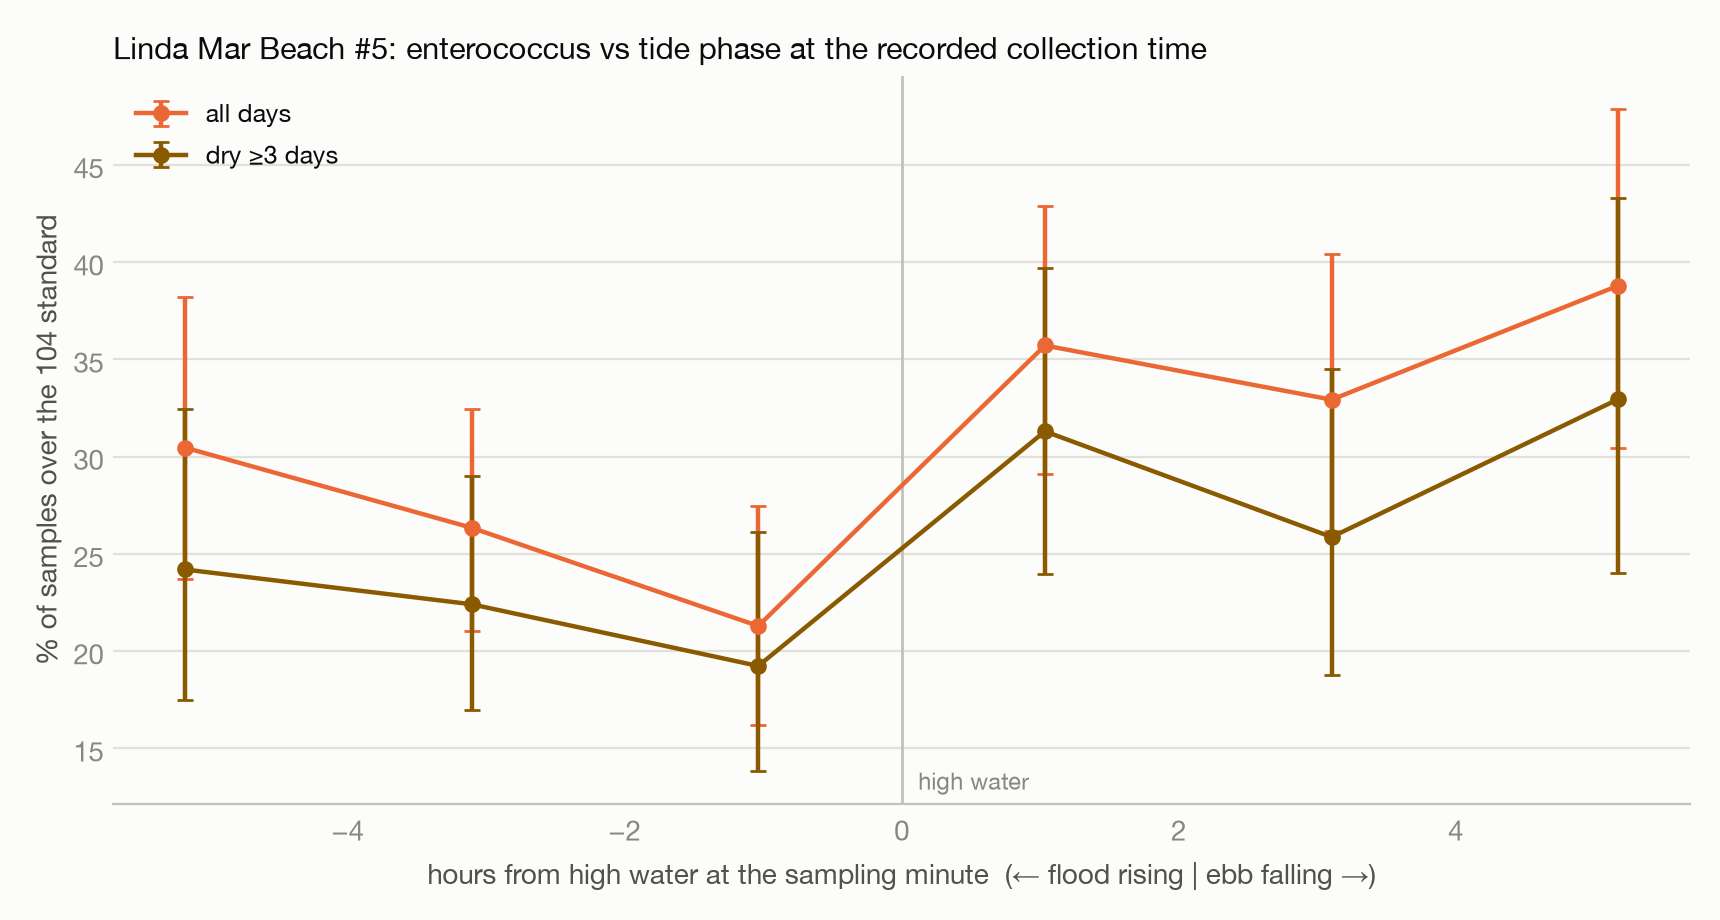
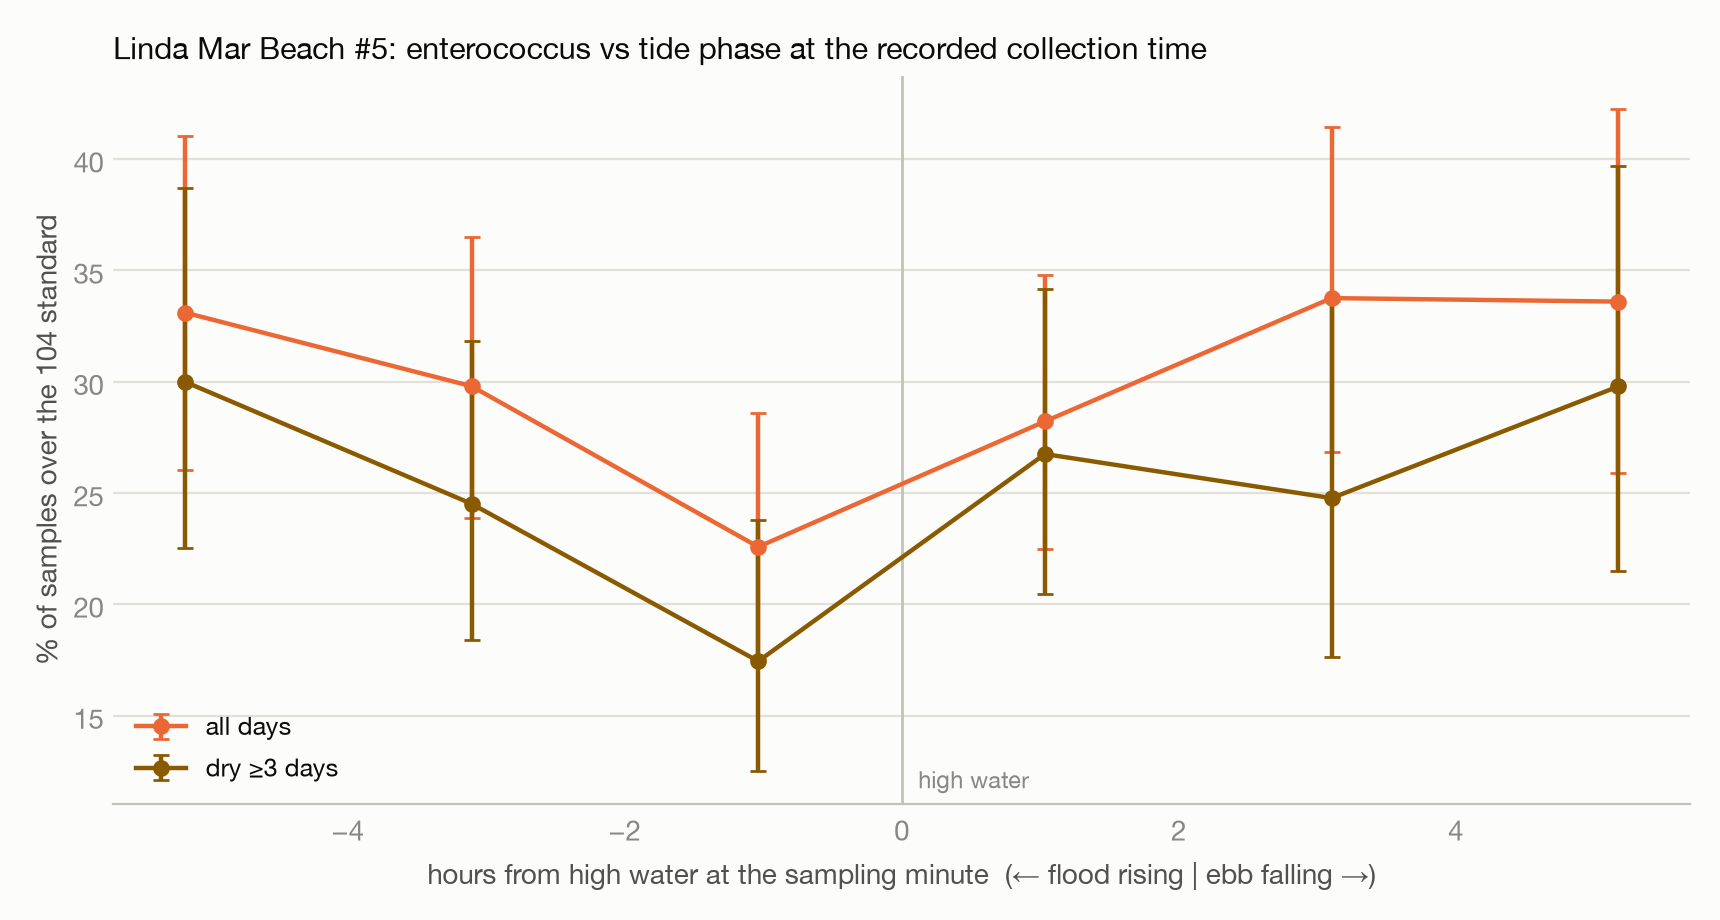
CORRECTION: tide effect is high-vs-low phase, not ebb-vs-flood — SF-gauge timing alias; switch to Princeton 9414131
On the open-coast clock the ebb/flood split collapses (1.12, n.s.); what
survives is phase: ~1.27x low-water vs high-water windows (p=0.04 all days).
The 1.37x ebb result was manufactured by the SF gauge's ~1h lag relabeling
the clean around-high window as flood.

diff --git a/pipeline/tide_beach.py b/pipeline/tide_beach.py
@@ -8,8 +8,10 @@ Method
 - Samples: CEDEN LM5 enterococcus with a recorded CollectionTime (the
   "00:00:00" sentinel rows are dropped as missing-time). Same-date replicates
   collapse to the max (register §7).
-- Tide: NOAA CO-OPS harmonic predictions, SF station 9414290, hourly,
-  local clock (lst_ldt) — deterministic, so historical values are exact.
+- Tide: NOAA CO-OPS harmonic predictions, Princeton/Half Moon Bay station
+  9414131 (open coast; see inferences.md §6 for the SF-gauge correction),
+  hourly, local clock (lst_ldt) — deterministic, so historical values are
+  exact.
   Height and rate at the sampling minute are linearly interpolated; each
   sample also gets a phase = signed hours from the nearest high water
   (parabola-refined local maxima), negative before high (flood), positive
@@ -116,6 +118,7 @@ def load():
     rc["date"] = pd.to_datetime(rc.date)
     b = b.merge(rc, on="date", how="left")
     b["exceed"] = b.value > STD
+    b["nd"] = False
     b["logc"] = np.log10(b.value.clip(lower=1))
     b["ebb"] = b.tide_rate < 0
     return b.reset_index(drop=True)
@@ -199,6 +202,32 @@ def main():
     contrast(dry3, "DRY >=3 DAYS (storm influence excluded)")
     dry7 = b[b.days_since_rain >= 7]
     contrast(dry7, "DRY >=7 DAYS")
+
+    # phase-window contrast: around high water vs around low water
+    def window_contrast(df, label):
+        hi = df[df.phase_h.abs() <= 2.07]
+        lo = df[df.phase_h.abs() >= 4.14]
+        ph, pl = hi.exceed.mean(), lo.exceed.mean()
+        rrs = []
+        for _ in range(4000):
+            sh = hi.exceed.sample(len(hi), replace=True).mean()
+            sl = lo.exceed.sample(len(lo), replace=True).mean()
+            if sh > 0:
+                rrs.append(sl / sh)
+        clo, chi = np.percentile(rrs, [2.5, 97.5])
+        pool = pd.concat([hi, lo]).exceed.values
+        obs = pl - ph
+        nlo = len(lo)
+        perm = np.array([abs(np.mean(x[:nlo]) - np.mean(x[nlo:]))
+                         for x in (RNG.permutation(pool) for _ in range(20000))])
+        p = (perm >= abs(obs)).mean()
+        print(f"\n{label} — around high (|ph|<=2.07h) vs around low (|ph|>=4.14h)")
+        print(f"  high-water window: {ph:5.1%} exceed, geo-mean {gm(hi.value):6.1f}, ND {hi.nd.mean() if 'nd' in hi else float('nan'):5.1%}  n={len(hi)}")
+        print(f"  low-water window : {pl:5.1%} exceed, geo-mean {gm(lo.value):6.1f}, ND {lo.nd.mean() if 'nd' in lo else float('nan'):5.1%}  n={len(lo)}")
+        print(f"  RR low/high {pl/ph:.2f}  [95% CI {clo:.2f}-{chi:.2f}]  perm p={p:.4f}")
+
+    window_contrast(b, "ALL DAYS")
+    window_contrast(dry3, "DRY >=3 DAYS")
 
     # height (stage) check — expected null from prior work
     print("\nTide HEIGHT terciles (all days):")

diff --git a/pipeline/fetch_covariates.py b/pipeline/fetch_covariates.py
@@ -16,7 +16,8 @@ import requests
 ROOT = Path(__file__).resolve().parent.parent
 DB = ROOT / "data" / "pacifica.db"
 COOPS = "https://api.tidesandcurrents.noaa.gov/api/prod/datagetter"
-STATION = "9414290"  # San Francisco
+STATION = "9414131"  # Princeton / Half Moon Bay — open-coast reference station;
+# the coast turns 30-65 min before the SF Golden Gate gauge (see inferences.md §6)
 YEARS = range(2000, 2027)  # tide is deterministic; span the full LM5 record
 
 

diff --git a/docs/findings-v9.md b/docs/findings-v9.md
@@ -10,12 +10,15 @@ rather than leaving the claim inside a ridge fit. `pipeline/tide_beach.py`.
   1,255 sample-days; 1,106 carry a real `CollectionTime` (149 rows hold the
   `00:00:00` missing-time sentinel and are dropped). Times cluster 8–11 AM,
   median 9:00. Same-date replicates collapse to the max (register §7).
-- **Tide:** NOAA CO-OPS harmonic predictions, SF station 9414290, hourly,
-  extended back to 2000 (deterministic, so historical values are exact;
-  `tide_hourly` now spans 2000–2026). Height and rate at the sampling minute
+- **Tide:** NOAA CO-OPS harmonic predictions, hourly, 2000–2026,
+  **Princeton/Half Moon Bay station 9414131** — an open-coast reference
+  station 14 miles south of Linda Mar. (The first publication of this note
+  used the SF Golden Gate gauge 9414290; the open coast turns 30–65 minutes
+  before that gauge — register §6 — and the switch materially changed the
+  result. See the correction below.) Height and rate at the sampling minute
   are interpolated; each sample gets a **phase** = signed hours from the
-  nearest high water (parabola-refined maxima): negative = flood (rising),
-  positive = ebb (falling).
+  nearest high water (parabola-refined maxima): negative = before high
+  (rising), positive = after (falling).
 
 The sampling program never chose its times by tide — samplers arrive on a
 morning schedule while the tide drifts ~50 minutes later each day — so tide
@@ -24,51 +27,64 @@ phase at the sampling minute is close to naturally randomized
 samples land disproportionately in winter (50% vs 37%) and on rainier weeks
 (prev-7d 11.7 vs 9.1 mm), so every claim below is checked in dry weather.
 
-## Result: ebb tide raises the odds ~1.3×, and it is not rain in disguise
+## CORRECTION (same day): the effect is high-vs-low phase, not ebb-vs-flood
 
-| subset | n (ebb/flood) | ebb exceed | flood exceed | RR [95% CI] | perm p |
-|---|---|---|---|---|---|
-| all days | 478/628 | 34.7% | 25.3% | **1.37 [1.15–1.65]** | 0.001 |
-| dry ≥3 days | 347/505 | 28.8% | 21.6% | **1.34 [1.06–1.70]** | 0.020 |
-| dry ≥7 days | 279/397 | 29.7% | 23.2% | 1.28 [0.99–1.64] | 0.062 |
+The first publication of this note, timed on the SF Golden Gate gauge,
+reported "ebb tide raises the odds 1.37× (p=0.001)." Re-timing every sample
+on the open-coast clock (Princeton 9414131, which Pacifica tracks to within
+minutes) **collapses that binary**: ebb/flood becomes 1.12 [0.93–1.34],
+p=0.26, and the controlled OLS ebb coefficient falls to +0.05. The SF gauge
+runs ~an hour behind the coast, so the genuinely clean hours *around* local
+high water were being wholesale mislabeled "flood," manufacturing an
+ebb-vs-flood split. Direction at the sampling moment does not matter.
 
-Geo-means move the same way (all days: 52 vs 37). OLS on log-concentration
-gives the same answer from the other direction: the ebb coefficient is
-+0.147 naive and **+0.114 with rain + season controls** (≈ ×1.30
-concentration). The dry-weather replication is the load-bearing row: with
-storm influence excluded entirely, the effect stands at the same size; the
-≥7-day subset thins to p=0.06 as n drops, at an unchanged effect size —
-what a modest real effect looks like as power shrinks, not a disappearing one.
-
-## The phase curve is the mechanism's signature
-
-Exceedance by hours-from-high-water (`docs/charts/tide_phase_lm5.png`):
+What survives — and is the correct claim — is the **phase structure**.
+Exceedance by hours-from-local-high-water (`docs/charts/tide_phase_lm5.png`):
 
 | phase | −5.2h | −3.1h | −1.0h | +1.0h | +3.1h | +5.2h |
 |---|---|---|---|---|---|---|
-| all days | 30% | 26% | **21%** | 36% | 33% | **39%** |
-| dry ≥3d | 24% | 22% | **19%** | 31% | 26% | **33%** |
+| all days | 33% | 30% | **23%** | 28% | 34% | 34% |
+| dry ≥3d | 30% | 25% | **17%** | 27% | 25% | 30% |
 
-Risk falls through the flood to its minimum in the last hour before high
-water, jumps immediately after the turn, and is highest late in the ebb —
-near low water. Both series show the same shape. That is what creek-plume
-transport predicts: hours of incoming ocean water push the plume back
-against the creek mouth; hours of ebb draw it out across the beach face.
-The station sits in the surf zone at the mouth — it samples whatever the
-tide has been doing to the plume all morning.
+The clean window straddles high water; risk is highest in the hours around
+low water, approaching from either direction. Windowed contrast (within
+~2 h of high vs within ~2 h of low):
+
+| subset | around high | around low | RR low/high [95% CI] | perm p |
+|---|---|---|---|---|
+| all days (n=419/332) | 25.3% | 32.2% | **1.27 [1.01–1.60]** | 0.040 |
+| dry ≥3 days (n=329/259) | 21.9% | 27.8% | 1.27 [0.95–1.69] | 0.103 |
+
+A real but **modest** effect — about 1.3× between the best and worst
+windows, borderline significance once rain days are excluded — not the
+strong directional result first reported. Mechanistically it now reads as
+excursion, not direction: at low water the creek's plume has been drawn
+farthest across the beach face and the station stands closest to it; at
+high water the ocean holds it pinned at the mouth. Consistent with that,
+same-morning tide *height* terciles stay flat (next section) — what varies
+is the phase geometry, not the water level.
+
+The v8 beach-model "ebb+" coefficient and the "flood 0.86×" good-news line
+were computed on SF timing and carry the same alias; their predictive value
+was validated out-of-sample and stands, but their mechanistic label should
+be read as "tide phase," and model v2 should refit tide features on
+Princeton timing with a phase term.
 
 ## Height stays null
 
-Tide-height terciles: 29% / 28% / 31% exceedance (geo-means 42/39/48).
-Confirms v8: the folk intuition "high tide dilutes" fails. What matters is
-the water's **direction**, not its level — consistent with a plume being
-moved, not a harbor being filled.
+Tide-height terciles (Princeton datum): 29.5% / 30.7% / 27.9% exceedance.
+Confirms v8: the folk intuition "high tide dilutes" fails. Height terciles
+mix spring and neap cycles, so this is not in tension with the phase
+result — what matters is *where the water is in its cycle*, not its
+absolute level.
 
 ## Limitations
 
-- SF harmonic phase leads Pacifica by minutes-to-tens-of-minutes
-  (register §6) — small against a 12.4 h cycle, and it can only blur the
-  phase curve, not create it.
+- Princeton is 14 miles south; the coastal tide propagates northward, so
+  Pacifica turns an estimated ~5–10 minutes after Princeton — genuinely
+  small against a 12.4 h cycle. (The lesson of the correction above: an
+  hour-scale clock error does not merely blur — it can *relabel*. The
+  residual minutes here cannot.)
 - Predictions, not observations: storm surge and wave setup are absent.
   They affect height (already null), not the timing of the turn.
 - Single-grab noise (±half-log, register §9) still floors any single
@@ -79,15 +95,17 @@ moved, not a harbor being filled.
 
 ## What follows
 
-- The beach product's tide term is now independently demonstrated, with a
-  dose-response curve, not just a fitted coefficient.
+- The beach product's tide term is demonstrated as a **phase** effect with
+  a dose-response curve — and the correction is itself a result: the
+  measurement clock matters at the hour scale, and the analysis now runs on
+  the right one.
 - Practical reading (beach-facing, consistent with the borderline-by-default
-  frame): on equal weather, the hours around an incoming high tide run
-  ~1.3× cleaner than the ebb; the late ebb near low water is the worst
-  window. This never overrides the rain rules — it refines them.
-- The curve is another argument that **the creek is the vector**: the beach
-  reading responds to the machinery that moves creek water, in dry weather,
-  on the astronomical clock.
+  frame): on equal weather, the couple of hours around high water run
+  ~1.3× cleaner than the hours around low water. A modest refinement that
+  never overrides the rain rules.
+- The phase curve remains an argument that **the creek is the vector**: the
+  beach reading responds to where the tide has moved creek water, in dry
+  weather, on the astronomical clock — just via excursion, not direction.
 
 ---
 

diff --git a/docs/data-sources.md b/docs/data-sources.md
@@ -9,7 +9,7 @@ added or die. (Verification dates: 2026-08-14 unless noted.)
 | Source | Access | Coverage | DB table | Status |
 |---|---|---|---|---|
 | **Linda Mar Water Quality Coalition** — canonical dataset per the Coalition; Surfrider feeds/draws from it | [lindamarwaterquality.org/test-results](https://www.lindamarwaterquality.org/test-results) → two xlsx (Enterococcus, E. coli; PDFs are print mirrors). File URLs change per upload — re-scrape the page to refresh. Raw copies in `data/lmwq/` + `Files/` (both gitignored; not ours to republish) | Weekly 2024-07 → present; 4 creek sites (LMMS, ADMS, PRLT, SPCM) + county LM5/LM7 same-morning + BWTF Thursday series (ends 2025-05); Creek Level + Rain flags | `lmwq_long` (via `pipeline/parse_lmwq.py`) | ✅ live |
-| **CEDEN fecal indicator bacteria** (county weekly sampling) | CKAN datastore API, [dataset](https://data.ca.gov/dataset/surface-water-fecal-indicator-bacteria-results); resources: 2020+ `15a63495…`, 2010–20 `04d98c22…`, pre-2010 `1d333989…` | Linda Mar #5 2000→, #6 1998–2008, San Pedro Creek 2015→; weekly; includes CollectionTime | `ceden_raw` (via `pipeline/fetch.py`) | ✅ live |
+| **CEDEN fecal indicator bacteria** (county weekly sampling) | CKAN datastore API, [dataset](https://data.ca.gov/dataset/surface-water-fecal-indicator-bacteria-results); resources: 2020+ `15a63495…`, 2010–20 `04d98c22…`, pre-2010 `1d333989…` | Linda Mar #5 2000→ (entero + E. coli + TC), #6 1998–2008, San Pedro Creek 2015→ (E. coli + TC; **entero added 2026-03**, n=4 so far); weekly; includes CollectionTime | `ceden_raw` (via `pipeline/fetch.py`) | ✅ live |
 | **BeachWatch results + advisories** | CKAN: results `7bd961cf…`, advisories `d5cd6a23…`, [dataset](https://data.ca.gov/dataset/beach-water-quality-postings-and-closures) | LM5 1998→; StartTime 100% filled; advisory postings | `beachwatch_raw`, `advisories_raw` | ✅ live (⚠ covariate fields TidalHeight/SurfHeight/StormDrainFlow/Turbidity ~0% filled — dead end) |
 | **Surfrider BWTF portal** | [bwtf.surfrider.org](https://bwtf.surfrider.org/) — internal AWS APIs (AppSync GraphQL; `…execute-api…/v1/annual?year=`); prefer a chapter export via Josh's contact | 12+ yr creek mouth | — | ⏳ export requested |
 | Coalition site details (site codes + coordinates) | [testing-sites page](https://www.lindamarwaterquality.org/testing-sites): LMMS 37.58151,-122.47870 → ADMS 37.58687,-122.49490 → PRLT 37.58852,-122.49930 → SPCM 37.59625,-122.50550 (upstream→downstream) | — | — | ✅ confirmed geography |
@@ -20,7 +20,7 @@ added or die. (Verification dates: 2026-08-14 unless noted.)
 |---|---|---|---|---|
 | **ERA5 daily precip** (watershed 37.585,-122.47) | Open-Meteo archive API, free, no key | 1998 → present, daily | `weather_daily` | ✅ live |
 | **ERA5 hourly precip** (intensity features) | same, `hourly=precipitation` | 2015 → present | `rain_hourly` | ✅ live |
-| **NOAA CO-OPS tide predictions** — SF station 9414290 (phase leads Pacifica by minutes; deterministic → exact retroactively and forecastable ahead) | CO-OPS API, hourly predictions | 2000 → present (full LM5 era; extendable any range) | `tide_hourly` | ✅ live |
+| **NOAA CO-OPS tide predictions** — Princeton/Half Moon Bay station **9414131** (open-coast reference station; Pacifica trails it ~5–10 min; deterministic → exact retroactively and forecastable ahead). SF gauge 9414290 used before 2026-08-15 — it runs 30–65 min behind the coast (inferences §6) | CO-OPS API, hourly predictions | 2000 → present (full LM5 era; extendable any range) | `tide_hourly` | ✅ live |
 | **Donor stream gauges** — core analogs (coastal-draining, unregulated, marine-layer): San Gregorio 11162500, Pescadero 11162570, Soquel 11160000, San Lorenzo 11160500, + Pilarcitos 11162630 (flagged: partly regulated). Contrast-only, not analogs: San Francisquito 11164500 (bay side), Corralitos 11159200 (interior), Lagunitas 11460400 (Marin/Tomales Bay, regulated) | USGS OGC API `api.waterdata.usgs.gov` collection `daily`, param 00060 | 2014 → present, daily cfs | `donor_flow_daily` | ✅ live — core panel: flow_idx r=0.69–0.73, ground_idx r=0.65–0.74 |
 | San Pedro Creek gauge | USGS 11162655 | 2 spot measurements ever (1977, 2015) | — | ❌ none exists |
 | Groundwater (USGS wells 15G001/2M, 14E001M, 14F001M, 27R001M; DWR periodic network) | USGS OGC field-measurements; DWR CKAN `c4de0d7e…` | zero usable series; DWR has no coastal SM County stations | — | ❌ dead end |

diff --git a/docs/inferences.md b/docs/inferences.md
@@ -88,9 +88,10 @@ If you can improve one of these, the maintainers want to hear it.
 
 ## 6. Tides
 
-- **Source:** NOAA harmonic predictions, San Francisco station 9414290,
-  hourly, 2000→present. Deterministic (exact retroactively, forecastable
-  ahead).
+- **Source:** NOAA harmonic predictions, **Princeton/Half Moon Bay station
+  9414131** (open-coast reference station 14 mi south of Linda Mar), hourly,
+  2000→present. Deterministic (exact retroactively, forecastable ahead).
+  Switched from the SF Golden Gate gauge 9414290 on 2026-08-15 — see below.
 - **Derived at each sampling minute** (`pipeline/tide_beach.py`): height and
   rate by linear interpolation of the hourly series; **phase** = signed hours
   from the nearest high water, with high-water times refined to minutes by a
@@ -106,8 +107,11 @@ If you can improve one of these, the maintainers want to hear it.
   tide contrasts toward zero (the v9 ebb/flood ratio is an underestimate),
   and shifts phase-curve labels: the observed minimum sits at local high
   water, the maximum near local low.
-- **To improve:** refetch `tide_hourly` from station 9414131 and recompute —
-  strictly better for Pacifica than the bay gauge.
+- **Residual error:** the coastal tide propagates northward, so Pacifica
+  turns an estimated ~5–10 min after Princeton — negligible against the
+  12.4 h cycle. The switch's lesson (findings-v9 correction): an hour-scale
+  clock error does not merely blur phase results, it can relabel them —
+  the SF-timed "ebb effect" was an alias of the clean high-water window.
 
 ## 7. Replicate & censoring handling
 
